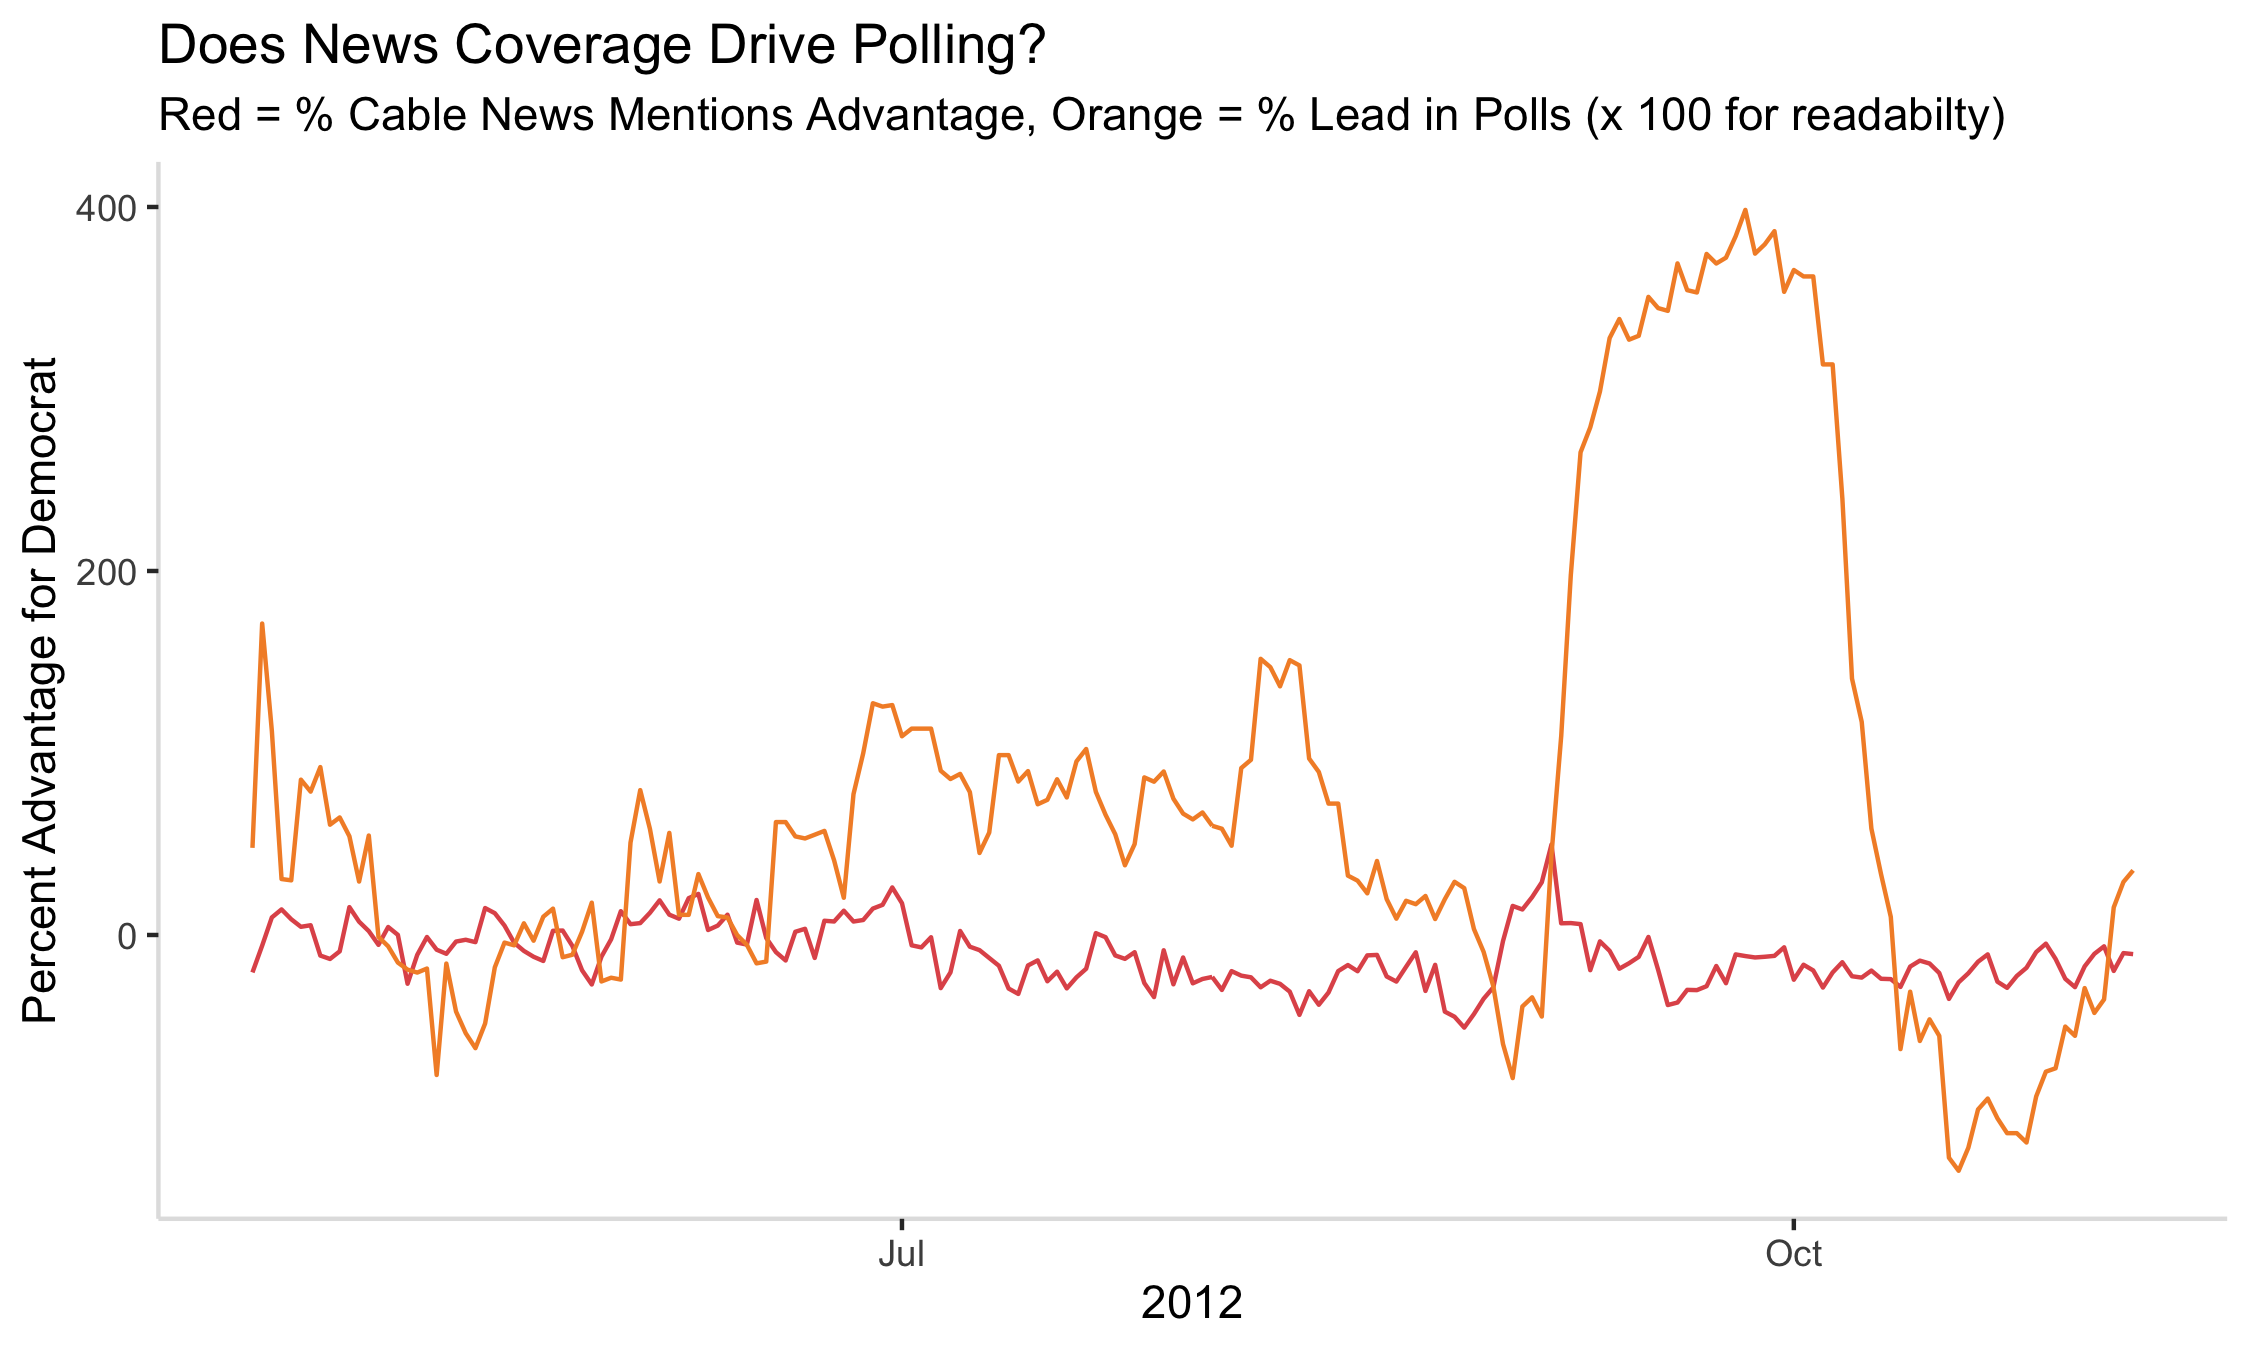
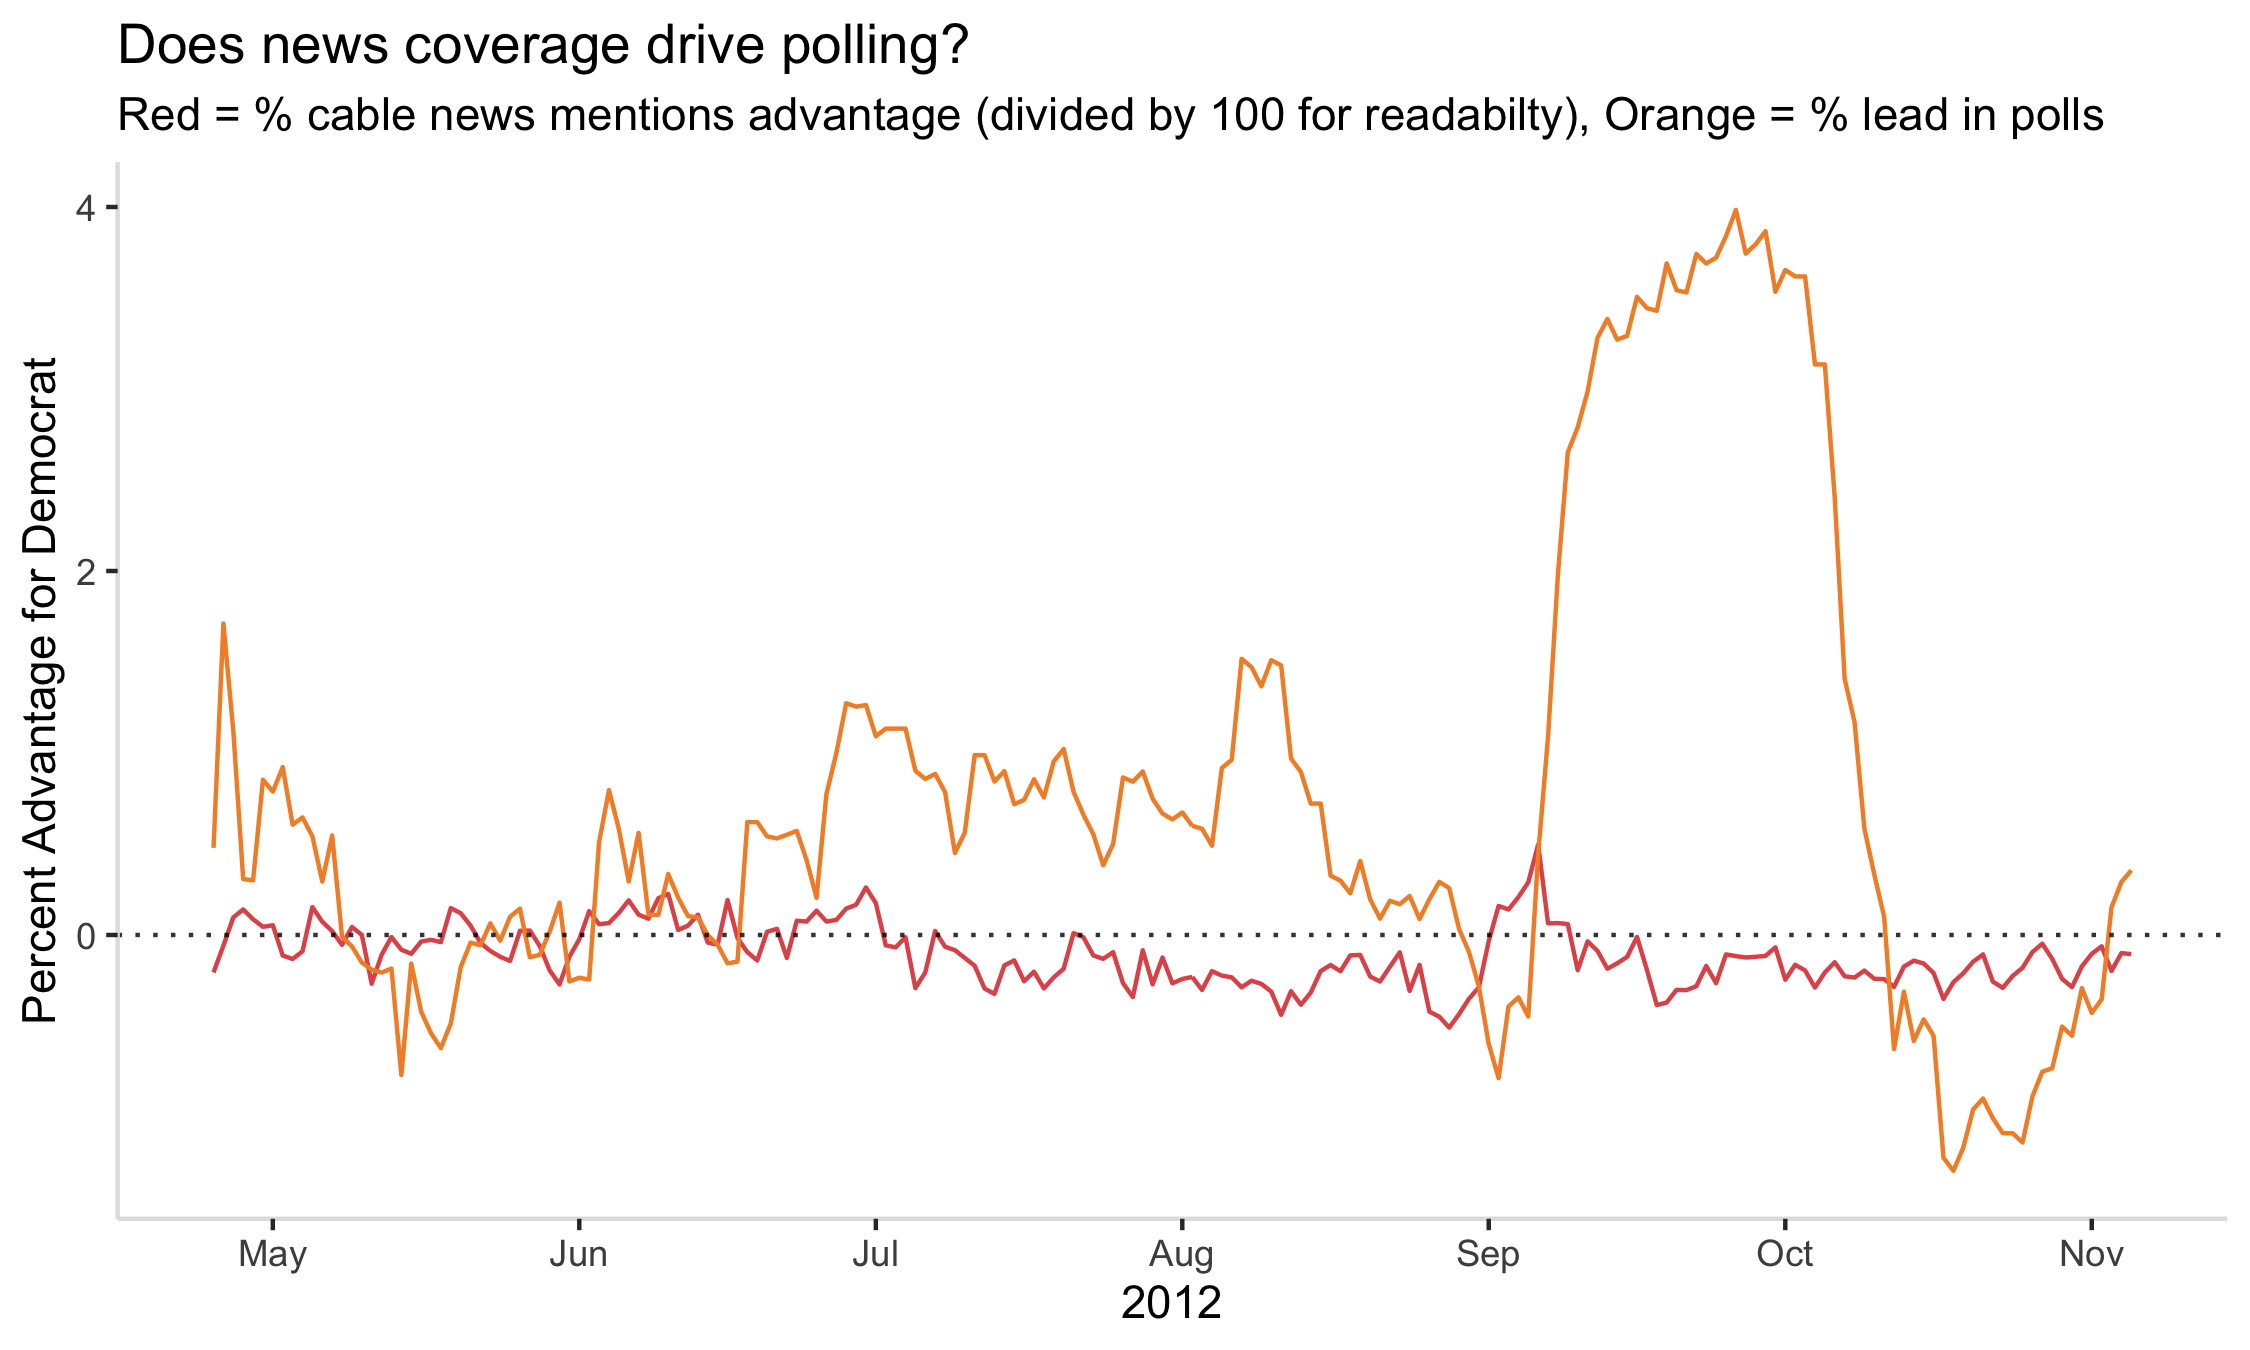
table formatting - again

diff --git a/docs/posts/week5.md b/docs/posts/week5.md
@@ -3,23 +3,21 @@
 
 [Back to main page](https://hwsimpson33.github.io/pres2020/)
 
-This week, our dataset focused on advertising in presidential campaigns. A few weeks ago, I discovered the [Stanford Cable TV News Analyzer](https://tvnews.stanford.edu/) and I wanted to use this tool to compare TV news mentions of candidates and advertising spending. Political ads are designed to persuade voters, as [Huber and Arceneaux (2007)](https://onlinelibrary.wiley.com/doi/abs/10.1111/j.1540-5907.2007.00291.x) argue. But perhaps they also drive the political conversation, pushing narratives that are then picked up by political talk shows and end up reflected in voters' opinions. On the other hand, ads might respond to themes that already exist in the political environment, trying to shift the conversation in a direction that is more favorable to their candidate. 
+Our dataset of the week contains information on presidential advertising campaigns. A few weeks ago, I discovered the [Stanford Cable TV News Analyzer](https://tvnews.stanford.edu/), and I wanted to use this tool to compare TV news mentions of candidates and advertising spending. Political ads are designed to persuade voters, as [Huber and Arceneaux (2007)](https://onlinelibrary.wiley.com/doi/abs/10.1111/j.1540-5907.2007.00291.x) argue. But perhaps they also drive the political conversation, pushing narratives that are picked up by political talk shows and then reflected in voters' opinions. On the other hand, ads might respond to themes that already exist in the political environment, trying to shift the conversation in a direction that is more favorable to their candidate. 
 
-This research project would be interesting and (I believe) viable, but it would require either automatically querying the Stanford TV Cable News Analyzer or running over 150 searches by hand to match the ad topic categories in our dataset. Unfortunately, I did not have time to do either this week. Instead, I picked a simpler research question: what is the relationship between mentions of candidates' names on cable TV (measured as the number of seconds someone is saying their name on TV), candidate ad spending, and polling averages? I combined day-by-day time series of these variables for the 2012 race, the only election for which I have both cable news data and ad data, and transformed each into a measure of advantage for the Democratic candidate by finding the percentage of TV mentions/ ad spending for Obama out of the two-party total.
+This research project would be interesting and (I believe) viable, but it would require either automatically querying the Stanford TV Cable News Analyzer or running over 150 searches by hand to match the ad topic categories in our dataset. Unfortunately, I did not have time to do either this week. Instead, I picked a simpler research question: what is the relationship between mentions of candidates' names on cable TV (measured as the number of seconds during which someone is saying their name), candidate ad spending, and polling averages? I combined day-by-day time series of these variables for the 2012 race, the only election for which I have both cable news data and ad data, and transformed each into a measure of advantage for the Democratic candidate by finding the percentage of TV mentions and ad spending for Obama out of the two-party total.
 
 <img src = "../images/time_plot.png">
 
 [Click here to see full-size image.](https://hwsimpson33.github.io/pres2020/images/time_plot.png)
 
-I started by calculating the correlation between each pair of variables. Ad advantage did not show much correlation at all to either poll lead or cable news advantage. Poll lead and cable news advantage, however, were signficantly negatively correlated (correlation = cor = -0.1523, p = .03357). This would suggest that, when Obama is ahead in the polls, he tends to be mentioned less on cable TV news relative to Romney. This result is suggestive, but does not take into account the time-series structure of the data. It treats each day as a single observation, and the observations are not ordered in relation to each other. 
+I started by calculating the correlation between each pair of variables. Ad advantage did not show much correlation to either poll lead or cable news advantage. Poll lead and cable news advantage, however, were significantly negatively correlated (correlation = -0.1523, p = .03357). This would suggest that Obama tends to be mentioned less on cable TV news relative to Romney when he is ahead in the polls. This result is suggestive, but does not take into account the time-series structure of the data. It treats each day as a single observation, and the observations are not ordered in relation to each other. 
 
-In order to incoporate this information, I used a time-series method called Granger causality. 
+Next, I ran a series of [Granger causality tests](https://en.wikipedia.org/wiki/Granger_causality) for each ordered pair of variables. Granger causality tests are used to determine if one time series can "predict" another, that is, if changes in time series x happen before changes in time series y. Granger tests cannot be used to show causality per se, because a third variable could be driving changes in both x and y, there is no way to control for other relevant variables, and the lagged correlation between the two variables could be spurious. The Granger test does show that there is some sort of relationship between the variables, however, and it is particularly useful in chicken-and-egg situations when causality could run in either direction (or both).
 
-Next, I ran a series of [Granger causality tests](https://en.wikipedia.org/wiki/Granger_causality) for each ordered pair of variables. Granger causality tests are used to determine if one time series can "predict" another, i.e. if changes in time series x happen before changes in time series y. Granger tests cannot be used to show causality per se, because a third variable could be driving changes in both x and y, there is no way to control for other relevant variables, and the correlation between the two variables could be spurious. The Granger test does show that there is some sort of relationship between the variables, however, and it is particularly useful in chicken-and-egg situations when causality could run in either direction (or both).
+The only ordered pair of variables to show significant results was news advantage used to predict poll advantage. The results were significant at every lag order I tried (if I understand it right, when a time series is autocorrelated or not stationary, using higher-order lags allows you to correct for bias). According to [StackExchange], you should use AIC and/or BIC to pick between different lag orders, but I couldn't figure out how to calculate them, so several lags are shown below. All the lag orders I tried for this test were significant, however.
 
-The only ordered pair of variables to show significant results was using Obama's news advantage to predict his poll advantage. The results were significant at every lag order I tried (if I understand it right, when a time series is autocorrelated or not stationary, using higher-order lags allows you to correct for any bias). I couldn't figure out how to get AIC and/or BIC (which, according to StackExchange, is how you are supposed to pick between different lag orders), so they are all shown below. All of them are significant, however, indicating that there is some sort of relationship here.
-
-<table style="border-collapse:collapse;" class=table_4430 border=1>
+<table style="border-collapse:collapse;" class=table_6815 border=2>
 <thead>
 <tr>
   <th id="tableHTML_header_1">order</th>
@@ -29,33 +27,36 @@ The only ordered pair of variables to show significant results was using Obama's
 <tbody>
 <tr>
   <td id="tableHTML_column_1">1</td>
-  <td id="tableHTML_column_2">0.0402</td>
+  <td id="tableHTML_column_2">0.0097</td>
 </tr>
 <tr>
   <td id="tableHTML_column_1">2</td>
-  <td id="tableHTML_column_2">4e-04</td>
+  <td id="tableHTML_column_2">0.0017</td>
 </tr>
 <tr>
   <td id="tableHTML_column_1">3</td>
-  <td id="tableHTML_column_2">0.0052</td>
+  <td id="tableHTML_column_2">0.0135</td>
 </tr>
 <tr>
   <td id="tableHTML_column_1">4</td>
-  <td id="tableHTML_column_2">0.0031</td>
+  <td id="tableHTML_column_2">0.005</td>
 </tr>
 <tr>
   <td id="tableHTML_column_1">5</td>
-  <td id="tableHTML_column_2">0.005</td>
+  <td id="tableHTML_column_2">0.0085</td>
 </tr>
 </tbody>
 </table>
 
-Using poll advantage to predict news advantage did not give significant results, however. These results suggest that, in the 2012 election, the candidate who got more news coverage then did better in the polls, a reasonable result. Ads did not have a significant impact on either news coverage or polling. 
+Using poll advantage to predict news advantage did not produce significant results, however. These results suggest that the candidate who got more news coverage during the 2012 campaign then did better in the polls soon afterwards, a reasonable result. Ads did not have a significant impact on either news coverage or polling. 
 
 Another interesting result I discovered while preparing to run the Granger tests was that [all] x [three] z [time] series have highly negatively (significantly) autocorrelated residuals, meaning that they exhibit reversion to the mean (see my [Week 1] blog post). This is an interesting observation in its own right. Is there some process that drives polls, ad spending, and news mentions to be negative for a candidate one day and positive the next day? Although I do not believe this impacts the results of higher-order Granger tests, I am also not confident enough in my understanding of Granger tests to be sure!
 
-I decided to take a closer look at the raw data for poll advantage and TV news advantage. There are a few interesting observations to be made about this graph. First, the massive surge in Obama's poll numbers in September seems to correspond to the convention bump that [Sides and Vavreck] describe in our reading from several weeks ago. Second, Obama actually receives less coverage
+Finally, I decided to take a closer look at the raw data on poll advantage and TV news advantage. There are a few interesting observations to be made about this graph. First, the massive surge in Obama's poll numbers in September seems to correspond to the convention bump that [Sides and Vavreck] describe in our reading from several weeks ago. This bump is preceded by a sharp increase in coverage, but the coverage goes back down much faster than poll numbers do. Second, Obama actually receives less coverage than Romney for most of the campaign – despite (or because of?) his higher poll numbers (the dashed line at y = zero represents equal coverage for challenger and incumbent). Incumbency could also be a factor in news coverage. Incumbents probably get more coverage than challengers earlier in the campaign because they are in the news before the campaign even starts (in fact, there is [evidence for that pattern] in my dataset). That pattern could reverse itself during the campaign itself, however, if the incumbent is a "known quantity" and the relatively new challenger is a more interesting topic for pundits to discuss.
 
-[let's look in more detail at the relationship b/t... present graph, tell a story based on sides + vavreck, speculate on why this relationship appears]
+<img src = "../images/poll_news_time_plot.png">
 
-[future research projects: disaggregate candidates]
+[Click here to see full-size image.](https://hwsimpson33.github.io/pres2020/images/poll_news_time_plot.png)
+
+There are lots of other angles to explore on this project. In addition to my original idea (testing each advertising topic against news for that topic), it would also be interesting to test the candidates separately, see if the cable news and polling pattern holds in 2016 (there is no ad data for 2016, but we do have both polling and news data), and explore cumulative measures of ad spending and news coverage as well as absolute measures. I hope I will have the opportunity to explore some of these questions in future weeks. 
+
